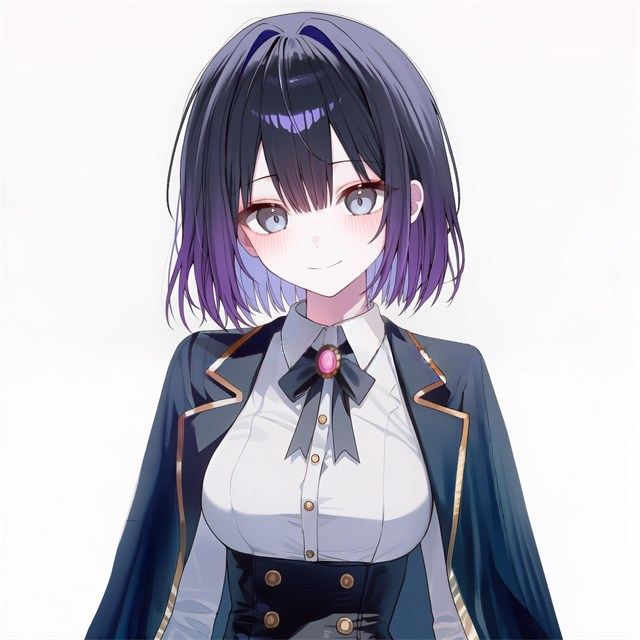
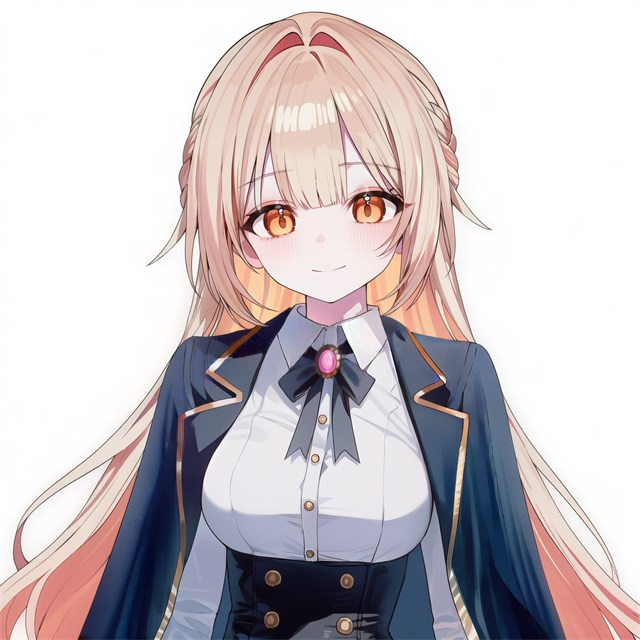
Update Viola (royal, new image), Harmony (royal), Cecilia age

Changed region(s): [[0.0, 0.0, 1.0, 1.0]]

diff --git a/content.js b/content.js
@@ -190,9 +190,9 @@ var ROSTER = `
 학생 | 로잘린 드 샹티이 | 에드레인 왕국 | 귀족 (공작가 영애) | 인간 | 여성 | 22세 | 마법사 | 비전계, 암흑계 | 8 | 공감 잘하는, 눈치 빠른, 붙임성 좋은 | Varche_Rosalyn
 학생 | 벨라 웨스트 | 노르테이아 공화국 | 비귀족 (노르테이아 입학 전형) | 인간 | 여성 | 20세 | 마법사 | 비전계, 신성계 | 5 | 정열적인, 직설적인, 화려한 | Varche_Bella
 학생 | 베키 포스터 | 라그나르 제국 | 비귀족 (추천서 입학) | 인간 | 여성 | 20세 | 마법사 | 강화계, 자연계 | 5 | 털털한, 인기 많은, 말괄량이 | Varche_Becky
-학생 | 비올라 디 베르디 | 세라디움 법국 | 귀족 (자작가 영애) | 인간 | 여성 | 21세 | 마법사 | 자연계, 비전계 | 6 | 감성적인, 자유로운, 즉흥적인 | Varche_Viola
+학생 | 비올라 베르셀 | 베르셀 왕국 | 귀족 (왕실 직계, 제2왕녀) | 인간 | 여성 | 21세 | 마법사 | 자연계, 비전계 | 8 | 자유로운, 즉흥적인, 자신감 있는 | Varche_Viola
 학생 | 아이리스 폰 에센바흐 | 라그나르 제국 | 귀족 (후작가 영애) | 인간 | 여성 | 22세 | 전사 (대낫) | 강화계, 암흑계 | 7 | 우아한, 도발적인, 여유로운 | Varche_Iris
-학생 | 하모니 메이플 | 오리디아 성역 | 비귀족 (오리디아 입학 전형) | 인간 | 여성 | 20세 | 마법사 | 강화계, 생명계 | 6 | 말수 적은, 존재감 강한, 쿨한 | Varche_Harmony
+학생 | 하모니 세라디움 | 세라디움 법국 | 귀족 (왕실 직계, 제1왕녀) | 인간 | 여성 | 21세 | 마법사 | 강화계, 생명계 | 8 | 따뜻한, 다정한, 헌신적인 | Varche_Harmony
 학생 | 히아신스 드 아르장 | 에드레인 왕국 | 귀족 (자작가 영애) | 인간 | 여성 | 21세 | 마법사 | 비전계, 자연계 | 5 | 몽환적인, 로맨티스트, 시를 즐기는 | Varche_Hyacinth
 학생 | 가브리엘 디 마르티노 | 세라디움 법국 | 귀족 (백작가 영식) | 인간 | 남성 | 22세 | 마법사 | 비전계, 신성계 | 6 | 매력적인, 사교적인, 성실한 | Varche_Gabriel
 교관 | 루치나 디 카발리 | 세라디움 법국 | 귀족 (후작가 출신) | 인간 | 여성 | 29세 | 마법사 | 자연계, 비전계 | 9 | 자존감 높은, 열정적인, 표현이 큰 | Varche_Lucina
@@ -273,7 +273,7 @@ var ROSTER = `
 학생 | 리제트 반 마르텐 | 베르셀 왕국 | 귀족 (자작가 영애) | 인간 | 여성 | 21세 | 마법사 | 비전계, 강화계 | 5 | 느긋한, 낙천적인, 의리 있는 | Bellois_Lisette
 학생 | 브리타 반 코프만 | 베르셀 왕국 | 귀족 (남작가 영애) | 쥐 수인 | 여성 | 20세 | 마법사 | 비전계, 생명계 | 6 | 셈이 빠른, 눈치 빠른, 의리 있는 | Bellois_Britta
 학생 | 비나 로엔 | 오리디아 성역 | 비귀족 (오리디아 입학 전형) | 다크 엘프 | 여성 | 21세 | 마법사 | 자연계, 암흑계 | 6 | 현실적인, 자립심 강한, 야심 있는 | Bellois_Vina
-학생 | 세실리아 베르셀 | 베르셀 왕국 | 귀족 (왕실 직계, 제1왕녀) | 인간 | 여성 | 20세 | 마법사 | 신성계, 비전계 | 8 | 야무진, 얌전한, 영리한 | Bellois_Cecilia
+학생 | 세실리아 베르셀 | 베르셀 왕국 | 귀족 (왕실 직계, 제1왕녀) | 인간 | 여성 | 22세 | 마법사 | 신성계, 비전계 | 8 | 야무진, 얌전한, 영리한 | Bellois_Cecilia
 학생 | 스텔라 반 오르시니 | 베르셀 왕국 | 귀족 (백작가 영애) | 인간 | 여성 | 20세 | 마법사 | 자연계, 비전계 | 6 | 장난기 많은, 안목 있는, 사교적인 | Bellois_Stella
 학생 | 이렌느 라그나르 | 라그나르 제국 | 귀족 (황실 직계, 제2황녀) | 인간 | 여성 | 21세 | 마법사 | 비전계, 자연계 | 8 | 단정한, 유연한, 신중한 | Bellois_Irene
 학생 | 카밀라 브란트 | 노르테이아 공화국 | 비귀족 (노르테이아 입학 전형) | 인간 | 여성 | 20세 | 전사 (투척용 손도끼) | 강화계, 자연계 | 5 | 직감적인, 낙천적인, 호기심 많은 | Bellois_Camilla
